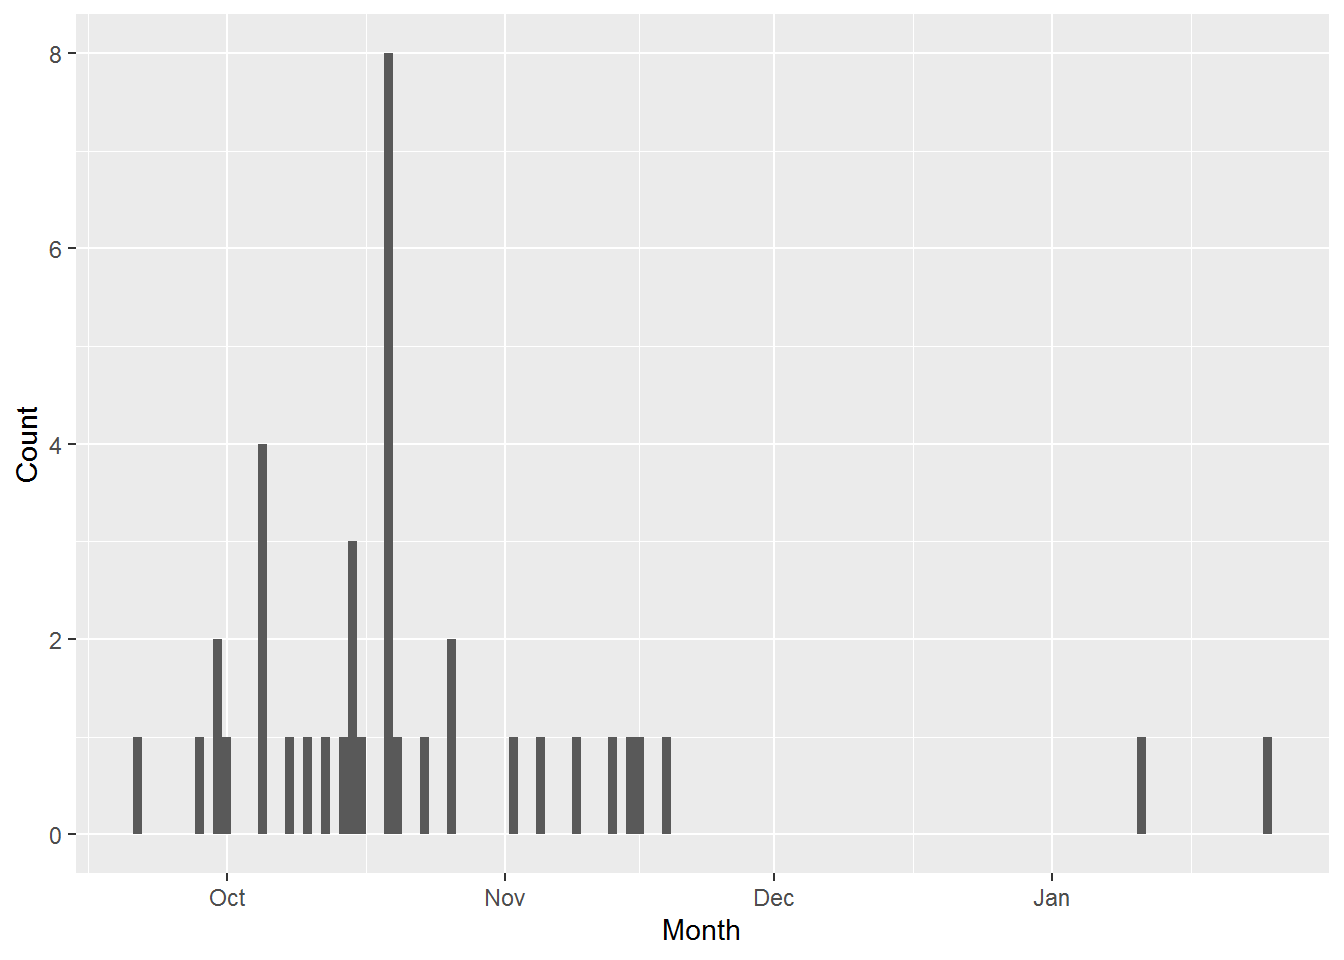
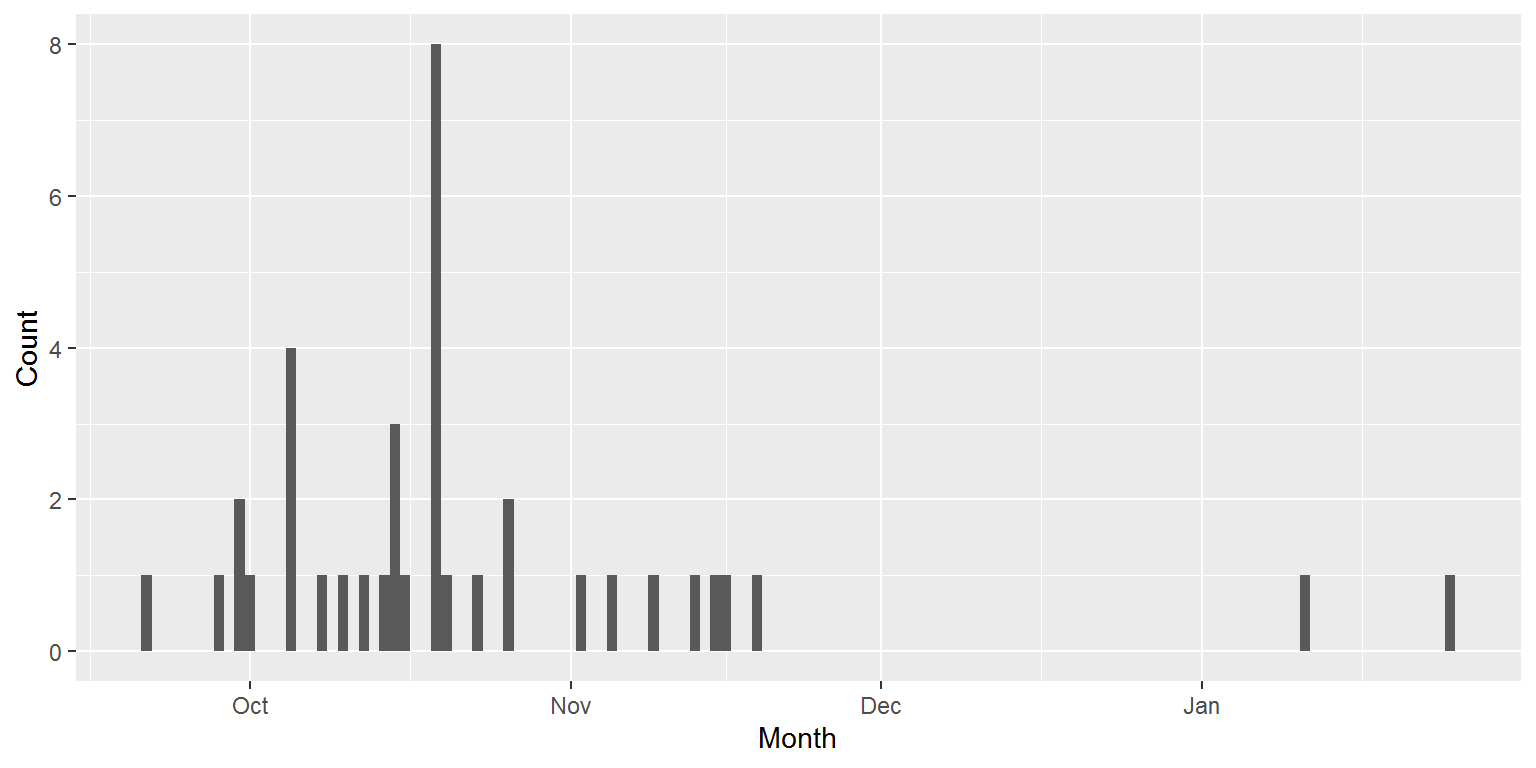
Tweaked

diff --git a/index.html b/index.html
@@ -310,13 +310,13 @@ head(dat)</code></pre>
   geom_histogram(binwidth=1) +
   xlab(&quot;Month&quot;) +
   ylab(&quot;Count&quot;)</code></pre>
-<p><img src="index_files/figure-html/unnamed-chunk-4-1.png" width="672" /></p>
+<p><img src="index_files/figure-html/unnamed-chunk-4-1.png" width="768" /></p>
 <pre class="r"><code>ggplot(dat, aes(x = guess_date)) +
   geom_histogram(binwidth=4) +
   xlab(&quot;Month&quot;) +
   ylab(&quot;Count&quot;) + 
   scale_y_continuous(breaks=seq(0,10,1))</code></pre>
-<p><img src="index_files/figure-html/unnamed-chunk-5-1.png" width="672" /></p>
+<p><img src="index_files/figure-html/unnamed-chunk-5-1.png" width="768" /></p>
 <pre class="r"><code>mode_n &lt;- max(guess_table$n)
 
 mode_guesses &lt;- guess_table %&gt;%
